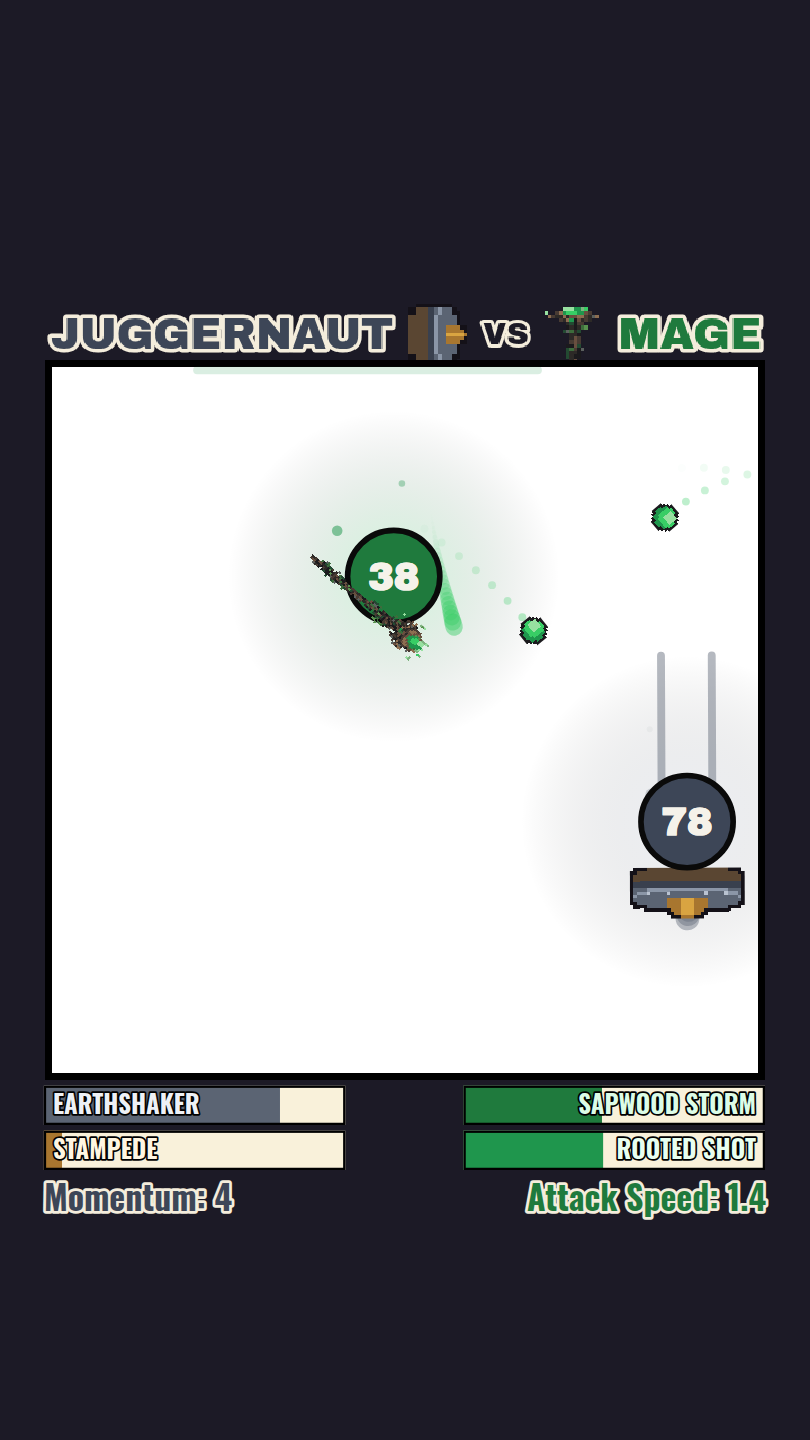
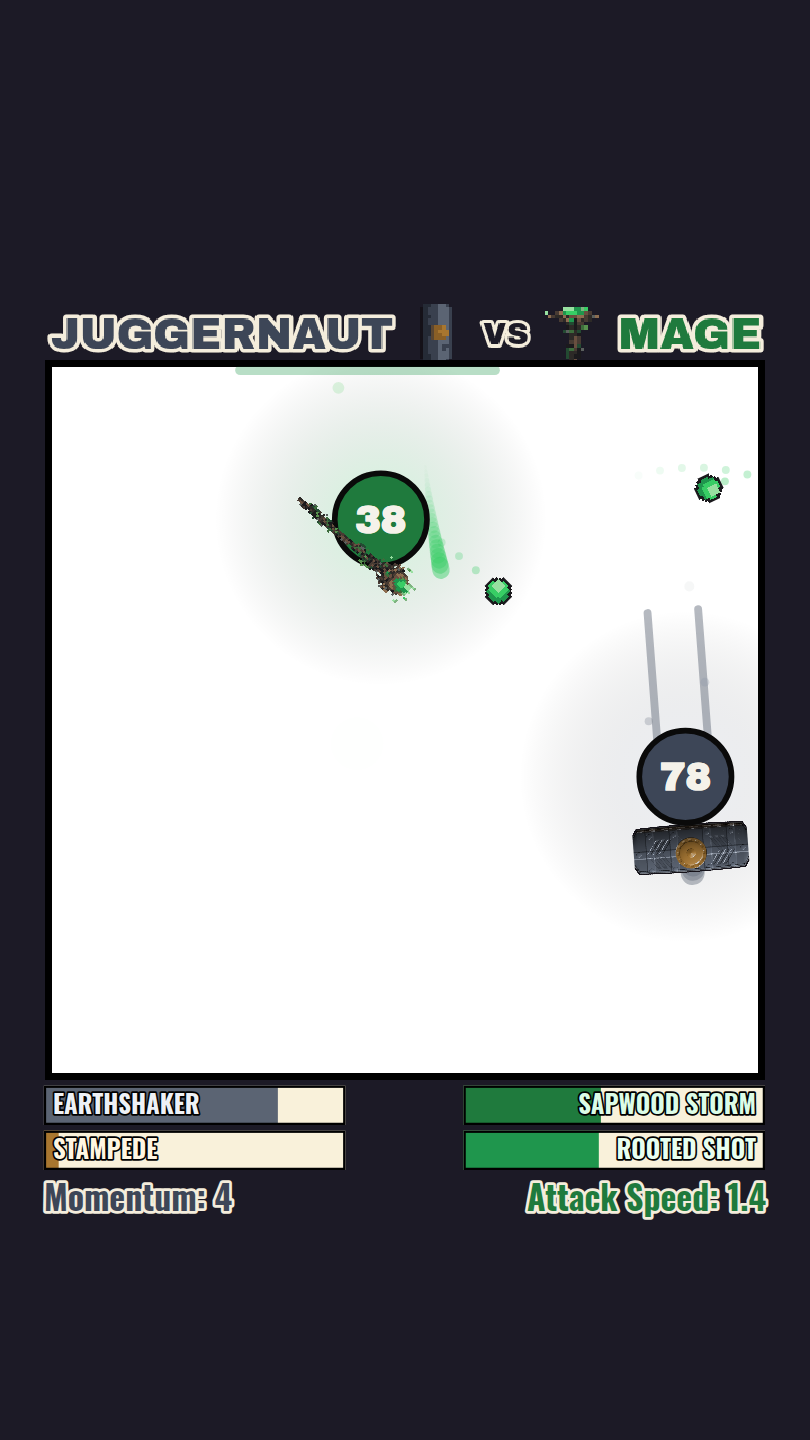
Colosse : le pavois devient un vrai PNG, relief calculé
Quatrième override PNG du dépôt, après la lame du Bretteur et les deux
shurikens du Shinobi. Le premier jet était une carte pixel-art composée à la
main faute de maquette — une planche vue par la tranche : ça tenait, mais ça
se lisait comme un madrier et ce n'était pas au niveau de ses voisines.

LE DESSIN EST CALCULÉ, PAS PEINT

Une première tentative en dégradés posés à la main a été jetée : molle. La
version livrée construit une carte de hauteur — planche bombée, cadre riveté,
quatre cerclages, nervure axiale, umbo à trois étages (collerette crantée,
dôme, pointe conique), chevrons gravés — puis en tire les normales et
l'éclaire (diffus + spéculaire de Blinn + occlusion). Les biseaux sortent
nets parce que ce sont des biseaux, pas des dégradés qui les imitent. C'est
ce que demandait le voisinage : la lame et le shuriken sont durs et
contrastés.

DEUX RÉGLAGES APPRIS À L'IMAGE

  • Un rayon exprimé en `u` vaut R x W/H en `v`. Multiplié par H/W — le même
    facteur à l'envers — l'umbo avalait le bouclier entier. Une inversion sur
    un sprite deux fois plus haut que large, et il n'y a plus de dessin.

  • `np.gradient` rend une pente PAR PIXEL, donc deux fois plus faible sur une
    image deux fois plus large : le rendu final en 360x816 était plus plat que
    l'aperçu en 240x544 sur lequel il avait été réglé. Le facteur de relief est
    maintenant proportionnel à la largeur. Un paramètre réglé à l'œil sur un
[…]

diff --git a/src/data/pixelart/colossus.js b/src/data/pixelart/colossus.js
@@ -3,103 +3,119 @@
  *
  * Chargées par `data/pixelmaps.js`, qui les recense dans `PIXEL_MAPS`.
  *
+ * **Les deux cartes de ce fichier sont réduites du même PNG**,
+ * `assets/sprites/colossus-pavise.png` — celui que `manifest.json` fait passer
+ * devant `colossusShield`. Aucune n'est dessinée à la main : c'est ce qui
+ * interdit à l'icône de diverger de l'arme qu'elle annonce, panne déjà payée
+ * deux fois sur le Lancier.
+ *
  * @module data/pixelart/colossus
  */
 
 import { deepFreeze } from '../freeze.js';
 
 
-/* Pavois — composé, pas transcrit : il n'existe pas de maquette pour lui.
+/* Pavois — **repli** du PNG, et référence de géométrie.
 
- * **Vu du dessus**, comme toutes les armes du jeu : l'axe de l'arme est l'axe
- * des x, donc le pavois est étroit en x (son épaisseur : planche de bois au dos,
- * plaque de fer devant) et haut en y (sa hauteur). L'umbo de bronze **dépasse
- * vers la droite**, côté adversaire — c'est lui qui touche en premier. */
+ * `head.scale` multiplie sa hauteur (34 x 3 = 102 px dessinés) et son ratio
+ * 15/34 décide de la largeur (45 px) : `handle.length` 41 + 45 = 86, la portée.
+ * Un PNG d'override doit donc garder ce ratio, sinon la pointe ment sur la
+ * hitbox.
+ *
+ * **Vu de dessus** : le moteur pose l'image avec sa largeur le long de l'axe de
+ * l'arme et sa hauteur en travers, donc ce pavois dessiné debout apparaît en
+ * travers de la trajectoire, face à l'adversaire — tenu comme un mur. Il est
+ * symétrique haut/bas pour la même raison : en vue de dessus il n'y a pas de
+ * haut, et une pointe d'un seul côté désignerait une direction au hasard. */
 export const COLOSSUS_SHIELD = deepFreeze({
   w: 15,
   h: 34,
   palette: {
     K: '#141118',
+    d: '#252b36',
+    e: '#39404e',
+    f: '#5b6473',
     b: '#5a4632',
-    i: '#39404e',
-    I: '#5b6473',
-    L: '#8b96a7',
-    r: '#b9c2d0',
-    o: '#a8762f',
-    O: '#d9a441',
+    o: '#8a5f26',
+    O: '#a8762f',
+    P: '#d9a441',
   },
   rows: [
-    '.KKKKKKKKKK....',
-    'KKbbiiIILIKK...',
-    'KbbbiiILIIIK...',
-    'KbbbiiILIIIK...',
-    'KbbbiiILIIIKK..',
-    'bbbbiiLrIIIIK..',
-    'bbbbiiLIIIIIK..',
-    'bbbbiiLIIIIIK..',
-    'bbbbiiLIIIIIK..',
-    'bbbbiiLIIIIIK..',
-    'bbbbiiLIIIIIK..',
-    'bbbbiiLrIoooKK.',
-    'bbbbiiLIIooooKK',
-    'bbbbiiLIIoooooK',
-    'bbbbiiLIIoooooK',
-    'bbbbiiLIIOOOOOo',
-    'bbbbiiLIIOOOOOo',
-    'bbbbiiLIIOOOOOo',
-    'bbbbiiLIIOOOOOo',
-    'bbbbiiLIIoooooK',
-    'bbbbiiLIIoooooK',
-    'bbbbiiLIIooooKK',
-    'bbbbiiLrIoooKK.',
-    'bbbbiiLIIIIIK..',
-    'bbbbiiLIIIIIK..',
-    'bbbbiiLIIIIIK..',
-    'bbbbiiLIIIIIK..',
-    'bbbbiiLIIIIIK..',
-    'bbbbiiLrIIIIK..',
-    'KbbbiiILIIIKK..',
-    'KbbbiiILIIIK...',
-    'KbbbiiILIIIK...',
-    'KKbbiiIILIKK...',
-    '.KKKKKKKKKK....',
+    '..Kddeeeffffe..',
+    '.Kdddeeefffffe.',
+    '.ddddeeeeffeff.',
+    'Kdddeeeeefffffd',
+    'Kddeeeeeffffffe',
+    'Kdddeeeeefeeffd',
+    'KKddddeeefffeed',
+    'Kdddeeeeefffffe',
+    'Kdddeeeeefffefe',
+    'Kdddedeeeffeffe',
+    'Kdddeeeeefffefe',
+    'Kddeeeeeffffffe',
+    'Kddeeeebbbbfffe',
+    'KKddddboooOofee',
+    'KddddboooOOOOfe',
+    'KKdddbbooOOOOfe',
+    'KKddbboooPOOOoe',
+    'KKddbboooOOOOoe',
+    'KKdddbboooOOOfe',
+    'KKdddbbbooooofe',
+    'Kdddeeboooooffe',
+    'Kddeeeebbfffffe',
+    'Kdddeeeeefffffe',
+    'Kdddeedeefeeeee',
+    'Kdddeeeeefeeefe',
+    'Kdddeeeeefeeefe',
+    'Kdddeeeeefeeefe',
+    'Kdddeeeeeffeffd',
+    'Kddeeefeefffffe',
+    'Kdddeeeeffffffd',
+    'KKdddeeeefeeeed',
+    '.ddddeeeffffff.',
+    '.Kdddeeefffffe.',
+    '..Kdddeeeffed..',
   ],
 });
 
-/* Icône du titre — **échantillonnée sur `COLOSSUS_SHIELD`**, jamais redessinée.
+/* Icône du titre — **réduite du même PNG** que le pavois, jamais redessinée.
 
- * Simple rééchantillonnage au plus proche voisin, 15 x 34 vers 16 x 16 : le
- * pavois y est tassé, mais il garde ses trois bandes — bois, fer, umbo de
- * bronze — et se lit. Une première version le *miroitait* pour le montrer de
- * face : ça n'en faisait pas un bouclier vu de face, juste un papillon. */
+ * Elle ne peut donc pas dériver de l'arme : toute retouche du PNG se propage
+ * aux deux par le même script.
+ *
+ * Carrée 16 x 16 comme les cinq autres icônes, parce que `scene.js` les pose
+ * avec `drawSpriteCentered(..., icon)` en supposant la largeur égale à la
+ * hauteur. Le pavois y est donc **centré** (9 x 16) plutôt qu'étiré au
+ * carré : étiré il ne se lisait plus, et à son ratio exact (7 x 16) il ne
+ * restait qu'une barre grise et un point de bronze. */
 export const ICON_PAVISE = deepFreeze({
   w: 16,
   h: 16,
   palette: {
     K: '#141118',
+    d: '#252b36',
+    e: '#39404e',
+    f: '#5b6473',
     b: '#5a4632',
-    i: '#39404e',
-    I: '#5b6473',
-    L: '#8b96a7',
-    o: '#a8762f',
-    O: '#d9a441',
+    o: '#8a5f26',
+    O: '#a8762f',
   },
   rows: [
-    '..KKKKKKKKKK....',
-    'KKbbbiiILIIIK...',
-    'KKbbbiiILIIIKK..',
-    'bbbbbiiLIIIIIK..',
-    'bbbbbiiLIIIIIK..',
-    'bbbbbiiLIIIIIK..',
-    'bbbbbiiLIIooooKK',
-    'bbbbbiiLIIoooooK',
-    'bbbbbiiLIIOOOOOo',
-    'bbbbbiiLIIoooooK',
-    'bbbbbiiLIIooooKK',
-    'bbbbbiiLIIIIIK..',
-    'bbbbbiiLIIIIIK..',
-    'bbbbbiiLIIIIIK..',
-    'KKbbbiiILIIIKK..',
-    'KKbbbiiILIIIK...',
+    '....ddeeffe.....',
+    '...Kdeeefffe....',
+    '...Kdeeefffe....',
+    '...Kddeefffe....',
+    '...Kdeeefffe....',
+    '...Kdeeefffe....',
+    '...KddbooOfe....',
+    '...KddboOOOe....',
+    '...KddbooOOe....',
+    '...Kdebooofe....',
+    '...Kdeeefffe....',
+    '...Kdeeefeee....',
+    '...Kdeeefefe....',
+    '...Kdeeefffe....',
+    '...Kddeefffe....',
+    '....ddeeffe.....',
   ],
 });

diff --git a/docs/FICHES.md b/docs/FICHES.md
@@ -1866,33 +1866,73 @@ personnages existants » : le diff de `tools/matrix-reference.txt` ne contient
 **que des ajouts**. Les quinze affrontements d'avant sont identiques au
 caractère près.
 
-### Le pavois — composé, pas transcrit
+### Le pavois — un vrai PNG, calculé et non peint
 
-Il n'existe pas de maquette pour lui : personne n'en a fourni. Le sprite est
-donc **composé** dans un script (`gen-colossus.py`), en posant explicitement
-chaque arête — pas en laissant une formule interpoler une silhouette. C'est la
-leçon de la première lance, livrée en **feuille arrondie** là où la maquette
-montrait une pointe à bords droits, parce que le profil était tracé en
-`(1-u)**1.3`.
+Le premier jet était une carte pixel-art **composée** à la main, faute de
+maquette : une planche vue par la tranche, umbo à droite. Elle tenait, mais elle
+se lisait comme un madrier et n'était pas au niveau de ses voisines. Sur demande
+d'un bouclier « dans le même style ultra design que les autres personnages », il
+est devenu le **quatrième vrai PNG du dépôt** —
+`assets/sprites/colossus-pavise.png`, 360 × 816, fond transparent, branché par
+`manifest.json` sur la clé `colossusShield`.
 
-**Vu du dessus**, comme toutes les armes du jeu : l'axe de l'arme est l'axe des
-x. Le pavois est donc **étroit en x** (son épaisseur : planche de bois au dos,
-plaque de fer devant) et **haut en y** (sa hauteur). L'umbo de bronze dépasse
-vers la droite, côté adversaire — c'est lui qui touche en premier.
+**Le dessin est calculé, pas peint.** Un dégradé posé à la main donnait une
+bouillie molle (première tentative, jetée) ; la version livrée construit une
+**carte de hauteur** — planche bombée, cadre riveté, quatre cerclages, nervure
+axiale, umbo à trois étages, chevrons gravés — puis en tire les normales et
+l'éclaire (diffus + spéculaire de Blinn + occlusion). Les biseaux sortent nets
+parce qu'ils sont des biseaux, pas des dégradés qui les imitent. C'est ce que
+demandait le voisinage : la lame du Bretteur et le shuriken du Shinobi sont durs
+et contrastés.
+
+**Deux réglages appris à l'image, comme toujours ici :**
+
+- **Un rayon exprimé en `u` vaut `R × W/H` en `v`.** Multiplié par `H/W` — le
+  même facteur à l'envers — l'umbo avalait le bouclier entier. Une seule
+  inversion sur un sprite deux fois plus haut que large, et il n'y a plus de
+  dessin du tout.
+- **`np.gradient` rend une pente *par pixel*.** Elle est donc deux fois plus
+  faible sur une image deux fois plus large : le rendu final, sorti en 360 ×
+  816, était plus plat que l'aperçu en 240 × 544 sur lequel il avait été réglé.
+  Le facteur de relief est maintenant proportionnel à la largeur, donc
+  indépendant de la résolution. Un paramètre réglé à l'œil sur un aperçu doit
+  être **normalisé** avant de servir en production, sinon il ne veut plus rien
+  dire à la taille livrée.
+
+**Vu du dessus**, comme toutes les armes du jeu : le moteur pose l'image avec sa
+**largeur le long de l'axe de l'arme** (vers l'adversaire) et sa **hauteur en
+travers**. Le pavois y est donc dessiné **debout**, ce qui le fait apparaître en
+travers de la trajectoire, face à l'adversaire — tenu comme un mur, ce qu'on
+veut voir. Et il est **symétrique haut/bas** : en vue de dessus il n'y a pas de
+« haut », une pointe d'un seul côté désignerait une direction au hasard.
 
 | | Valeur | |
 | --- | --- | --- |
-| Carte | 15 × 34 cellules, `scale: 3` → **45 × 102 px** | seule arme plus haute que longue |
+| PNG | 360 × 816, **ratio 15/34 exact** | contrainte dure, voir ci-dessous |
+| Carte de repli | 15 × 34 cellules, `scale: 3` → **45 × 102 px** | seule arme plus haute que longue |
 | Portée (`reach`) | **86 px** | `calé` |
 | `handle.length` | **41 px** | `déduit` : 41 + 45 = 86, la somme retombe sur la portée |
 | `handle.width` | 0 | pas de manche à tracer, le sprite est toute l'arme |
 | Hitbox | `from: 0.48`, `radius: 44` | **la plus large du jeu** ; ne couvre que la plaque, pas le bras |
 
-L'icône du titre (`ICON_PAVISE`) **échantillonne `COLOSSUS_SHIELD`** au plus
-proche voisin, elle n'est pas redessinée : même discipline que l'icône du
-Lancier, qui avait lâché deux fois en divergeant de son arme. Une première
-version la *miroitait* pour montrer le bouclier de face — ça n'en faisait pas un
-bouclier de face, juste un papillon symétrique.
+**Le ratio du PNG n'est pas libre.** `drawSpriteLeft` tire la largeur dessinée
+du ratio **du sprite affiché** (`w = h × width/height`) alors que la hauteur
+vient de la **carte** (`map.h × scale`). Un override au mauvais ratio change
+donc la largeur dessinée sans toucher à la hitbox : la somme `handle.length +
+largeur` cesse de valoir `reach`, et le dessin ment sur l'endroit où il touche.
+Le PNG du Bretteur en a déjà fait les frais dans l'autre sens (3,47 contre 3,89
+pour sa carte) ; ici le ratio est tenu à 15/34 au chiffre près.
+
+**Les trois images sortent du même dessin.** La carte de repli et l'icône du
+titre sont **réduites du PNG** par un script, jamais redessinées : c'est ce qui
+interdit à l'icône de diverger de l'arme, panne déjà payée deux fois sur le
+Lancier (restée indigo quand l'arme est passée au cuivre, restée une lame fine
+quand la tête est devenue une pointe de flèche). L'icône reste **carrée
+16 × 16** comme les cinq autres — `scene.js` les pose avec
+`drawSpriteCentered(…, icon)` en supposant la largeur égale à la hauteur — donc
+le pavois y est **centré** sur 9 colonnes plutôt qu'étiré au carré : étiré il ne
+se lisait plus, et à son ratio exact (7 × 16) il ne restait qu'une barre grise
+et un point de bronze.
 
 **Un bouclier qui touche large doit frapper faible**, sinon c'est une faux :
 `melee.damage: 5`, dans la bande du roster (2 à 5), et un verrou de 1,0 s. La

diff --git a/README.md b/README.md
@@ -17,7 +17,7 @@ vient d'aucune vidéo : sa fiche ne porte donc que du `calé` et du `déduit`.
 | **Lancier** | Lance de dragon (**164 px, la plus longue portée du jeu**) — **elle suit son cap de déplacement**, elle ne vise pas | **charge** en ligne droite à 2,6 × sa vitesse, pointe en avant, en semant des images fantômes ; dégâts qui montent de **+2 par touche portée** | Bond / JUMP — il **quitte l'arène** 1,5 s, un marqueur suit sa cible, puis il retombe dessus |
 | **Shinobi** | Shuriken d'ombre — **la bille *est* l'arme**, sprite centré dessus | hitbox en **disque** de 75 px tout autour, le seul du roster ; palette sombre | Tornade de shurikens / SHURIKEN TORNADO |
 | **Mage** | Sceptre de sève (transcrit d'une maquette) — **braqué sur la cible, centré sur son pivot et dessiné par-dessus la bille** | **tireur** : des **orbes guidées** qui virent vers l'adversaire, à une **cadence qui monte toute seule** (+0,05 par orbe, de 1,00 à 4,00 par seconde) | Tempête de sève / SAPWOOD STORM |
-| **Colosse** | Pavois (composé, pas transcrit) — **il suit le cap**, il ne vise pas ; **la hitbox la plus large du jeu** (rayon 44), mais des dégâts dans la bande du roster : ce qui touche large frappe faible | **le corps est l'arme** : seul à peser 3 et seul à blesser **par la collision des corps** — jusqu'à **24 d'un seul choc** à élan plein, la plus grosse frappe du jeu et la plus rare. Son **Élan** monte en ligne droite et retombe à chaque virage, mur ou choc — la seule stat qui dépende de la géométrie de l'arène | Séisme / EARTHSHAKER — il se plante et envoie une onde qui traverse l'arène et ralentit 2,6 s |
+| **Colosse** | Pavois (PNG dédié, relief calculé) — **il suit le cap**, il ne vise pas ; **la hitbox la plus large du jeu** (rayon 44), mais des dégâts dans la bande du roster : ce qui touche large frappe faible | **le corps est l'arme** : seul à peser 3 et seul à blesser **par la collision des corps** — jusqu'à **24 d'un seul choc** à élan plein, la plus grosse frappe du jeu et la plus rare. Son **Élan** monte en ligne droite et retombe à chaque virage, mur ou choc — la seule stat qui dépende de la géométrie de l'arène | Séisme / EARTHSHAKER — il se plante et envoie une onde qui traverse l'arène et ralentit 2,6 s |
 
 Chacun porte en plus un **pouvoir spécial**, sur horloge propre, avec sa jauge
 juste sous celle de l'ultime. Il s'ajoute à l'ultime, il ne le remplace pas —

diff --git a/CLAUDE.md b/CLAUDE.md
@@ -341,12 +341,24 @@ Les écarts **par combattant** — arme du Lancier remplacée par une maquette,
 reskin du Bretteur en lame de braise, Shinobi en ninja sombre — sont détaillés
 dans `docs/FICHES.md`. Ce qui suit vaut pour tout le dépôt.
 
-- **Trois vrais PNG dans un dépôt « sans binaire »** : la lame du Bretteur, le
-  shuriken du Shinobi (deux versions, flamme et ombre). `assets/sprites/manifest.json`
-  fait pointer une clé de `PIXEL_MAPS` sur un fichier ; la carte pixel-art reste
-  comme **repli automatique** (`render/sprites.js`). C'est cette couche
-  d'indirection qui rend un changement d'apparence réversible en une ligne de
-  JSON.
+- **Quatre vrais PNG dans un dépôt « sans binaire »** : la lame du Bretteur, le
+  shuriken du Shinobi (deux versions, flamme et ombre), le pavois du Colosse.
+  `assets/sprites/manifest.json` fait pointer une clé de `PIXEL_MAPS` sur un
+  fichier ; la carte pixel-art reste comme **repli automatique**
+  (`render/sprites.js`). C'est cette couche d'indirection qui rend un changement
+  d'apparence réversible en une ligne de JSON.
+
+  **Le ratio d'un override n'est pas libre.** `drawSpriteLeft` prend la hauteur
+  dessinée de la **carte** (`map.h × scale`) et la largeur du ratio **du sprite
+  affiché**. Un PNG au mauvais ratio change donc la largeur sans toucher à la
+  hitbox, et `handle.length + largeur` cesse de valoir `reach` : le dessin ment
+  sur l'endroit où il coupe. Le pavois du Colosse tient 15/34 au chiffre près
+  pour cette raison ; celui du Bretteur, lui, a dérivé (3,47 contre 3,89).
+
+  **Et les trois images d'une arme sortent du même dessin.** Carte de repli et
+  icône du titre sont *réduites du PNG* par script, jamais redessinées — sans
+  quoi l'icône finit par annoncer une arme que le joueur ne voit pas (payé deux
+  fois sur le Lancier).
 - **Fond hors-arène** : la vidéo est sur papier crème, le site est en **encre
   sombre `#1c1a26`**. L'arène reste blanche → le pixel-art garde ses contours
   noirs mesurés. Le « chrome » posé sur le fond sombre passe à un liseré crème

diff --git a/assets/sprites/README.md b/assets/sprites/README.md
@@ -40,8 +40,13 @@ Règles :
   `imageSmoothingEnabled = false`) ;
 - le sprite est dessiné **pointe vers la droite**, angle 0 = est. Le moteur
   applique lui-même la rotation de l'arme ;
-- le ratio largeur/hauteur est conservé : le moteur impose la **hauteur**
-  (`head.scale × hauteur du pixel-map`) et calcule la largeur.
+- le ratio largeur/hauteur **doit être celui de la carte pixel-art qu'il
+  remplace**. Le moteur impose la hauteur (`head.scale × hauteur du pixel-map`)
+  et calcule la largeur à partir du ratio **du PNG** : un ratio différent change
+  donc la largeur dessinée *sans toucher à la hitbox*, la somme
+  `handle.length + largeur` cesse de valoir `reach`, et le dessin ment sur
+  l'endroit où il coupe. Le pavois du Colosse tient 15/34 au chiffre près pour
+  cette raison ; la lame du Bretteur, elle, a dérivé (3,47 contre 3,89).
 
 ## 2. Déposer le fichier ici
 
